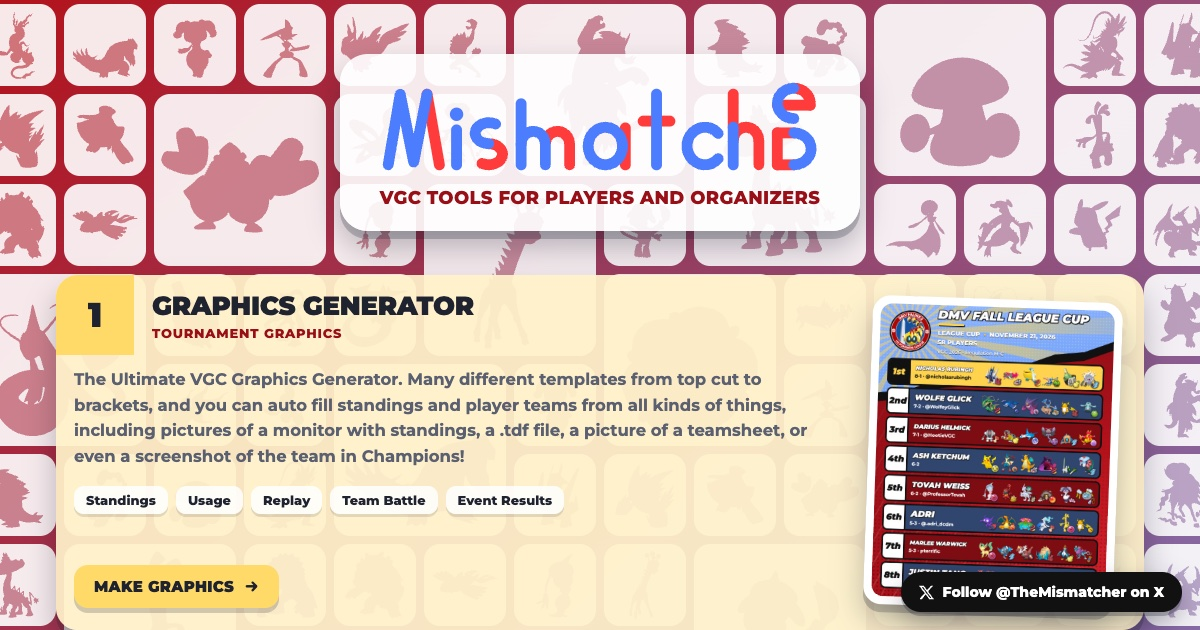
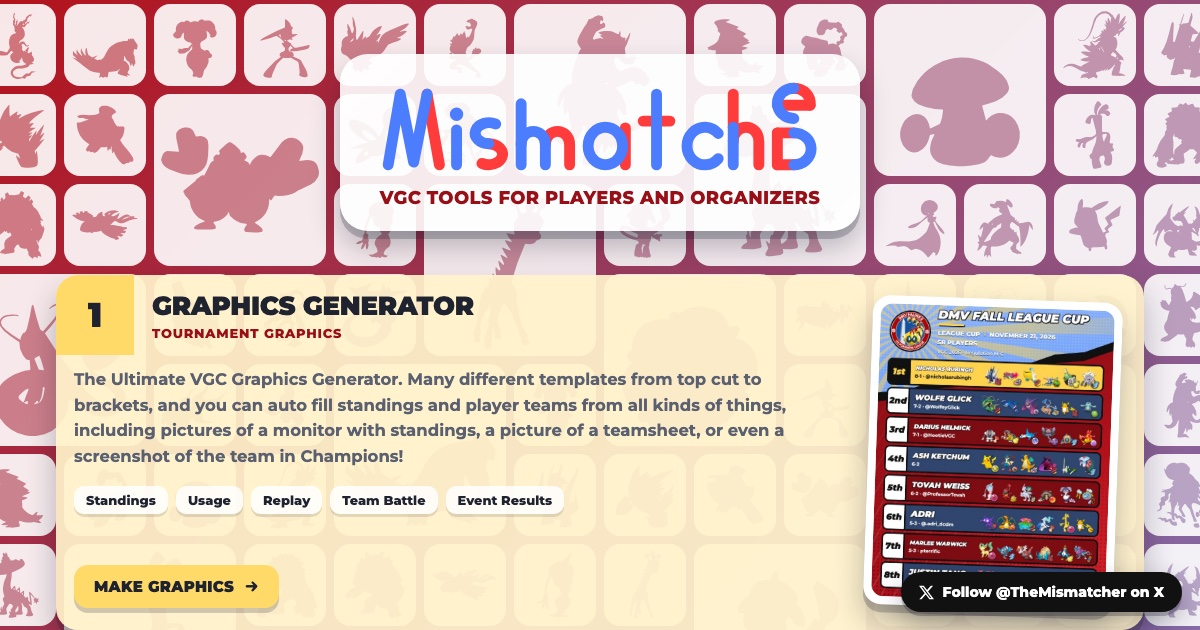
Remove remaining TOM file mentions; text review updates; link-preview images
- Tour "Add your results": upload a PDF of the standings (TOM file upload is gone)
- Standings photo import: "an official local standings page"; PDF error now
  says to use a PDF of the full standings page
- /graphics link preview: "Auto-fill from RK9, photos of standings, and teamsheets";
  public/og-image.jpg rebuilt, home/og-image.jpg re-shot without ".tdf file"
- Credits footer misuse clause moved into the catalog (ui.credits.footer.misuse)
- Sports Page Top 8 Photos / Top 4 Photos / Wide Spotlight descriptions
- StandingsPage comment: TOM File tab removed

Changed region(s): [[0.0617, 0.6937, 0.4008, 0.754], [0.4008, 0.6635, 0.6783, 0.6937]]

diff --git a/home/credits/index.html b/home/credits/index.html
@@ -304,12 +304,12 @@
   </main>
 
   <footer>
-    <p data-i18n="ui.home.footer.legal">Pokémon and all related names © Nintendo / Creatures Inc. / GAME FREAK inc. / The Pokémon Company. Mismatched.gg is a non-commercial fan site, not affiliated with or endorsed by them. All services are provided as is, and the Mismatched.gg team is not responsible for any misuse.</p>
+    <p><span data-i18n="ui.home.footer.legal">Pokémon and all related names © Nintendo / Creatures Inc. / GAME FREAK inc. / The Pokémon Company. Mismatched.gg is a non-commercial fan site, not affiliated with or endorsed by them.</span> <span data-i18n="ui.credits.footer.misuse">All services are provided as is, and the Mismatched.gg team is not responsible for any misuse.</span></p>
   </footer>
 </div>
 
 <!-- The page's strings from the generator's catalog (src/i18n/en.json). Written by `npm run i18n:home`. -->
-<script type="application/json" id="i18n-en">{"ui.credits.contact.text":"Message Nicholas or Tovah on Discord with any glitches, feedback, or suggestions, or if you created a template or brand you would like added.","ui.credits.contact.title":"Feedback or ideas?","ui.credits.home":"Home","ui.credits.metaDescription":"The people, data, and tools behind Mismatched.gg, and how to reach us with bug reports, feedback, suggestions, or new templates to add.","ui.credits.pageTitle":"Credits · Mismatched","ui.credits.people.adri":"Created the Stream Event Results template, the basis for every Event Results template, and gave feedback on other templates. Created the DMV Falinks logo.","ui.credits.people.kicker":"Who made Mismatched.gg","ui.credits.people.marlee":"Created the Classic, Comic Book, and Comic Book Poster templates, which served as the first templates and inspired many of the others.","ui.credits.people.nicholas":"Made the Mismatched.gg Homepage, the Graphics Generator, and Invitational Standings Page. Organizes the DMV Invitational.","ui.credits.people.title":"People","ui.credits.people.tovah":"Built the Calendar Bot, Control Panel, and worked on the site as a whole, updating all parts. She also functions as the primary server admin for Mismatched.gg.","ui.credits.people.twilite":"Came up with the idea for the DMV Invitational and organizes it with Nicholas.","ui.credits.privacy.count":"We count each time a graphic is copied or downloaded on the Graphics Generator, specifically which template and style, which tab, whether it was copied or downloaded, the day, and the country it came from (plus the state in the US).","ui.credits.privacy.countTitle":"What we track","ui.credits.privacy.kicker":"What we collect, and why","ui.credits.privacy.not":"Your IP address is only used to find the country and state, then dropped: it is never saved. We don't collect, and have no way of reading, player names, teams, event details, or anything you type or upload, besides links given to fetch tournament data from external sites. The Graphics Generator and Invitational standings don't use cookies; the Calendar site only uses them to keep you signed in and remember your last tab (its calendar view is an embedded Google Calendar, run by Google). We don't use outside tracking services. We cannot see the contents of files you upload, including images – only the relevant data is read from them, on your device, and then stored in your browser.","ui.credits.privacy.notTitle":"What we don't keep","ui.credits.privacy.title":"Privacy","ui.credits.privacy.who":"Only the Mismatched.gg admins. We use it to improve our most- and least-used templates, and to decide which languages to add next.","ui.credits.privacy.whoTitle":"Who sees it","ui.credits.privacy.why":"Seeing how much each design is used tells us which templates to improve, which to retire, and what we should make next.","ui.credits.privacy.whyTitle":"Why","ui.credits.privacy.yours":"Everything you enter in the Graphics Generator (players, teams, photos, branding) is saved in your own browser, not on our servers.","ui.credits.privacy.yoursTitle":"What you enter stays on your device","ui.credits.sources.bulbagarden":"Item icons","ui.credits.sources.kicker":"Where the assets and data come from","ui.credits.sources.limitless":"Auto import standings, teams, brackets, and usage","ui.credits.sources.maxmind":"Finds the country and US state for the template counts (see Privacy). This product includes GeoLite2 data created by MaxMind, available from https://www.maxmind.com.","ui.credits.sources.official":"Used to import data for standings from official Regionals and Internationals","ui.credits.sources.pokeapi":"Pokémon and item data, sprites, and the Pokémon HOME pictures on graphics and on the Mosaic style template and the home page","ui.credits.sources.pokepaste":"Team imports","ui.credits.sources.rk9":"Used to import data to fill rosters, team lists, and records for Event Results","ui.credits.sources.showdown":"Battle replays to import for the Replay and Team Battle tabs, backup item icons, and the move and ability legality lists that help recognize Pokémon when importing team screenshots","ui.credits.sources.smogon":"Pixel sprites for Pokémon from Gen 6 on, created and contributed by fans. Currently used in the retired pixel style.","ui.credits.sources.title":"Data and Sprites","ui.credits.title":"Credits","ui.credits.tools.cairosvg":"Turns instructions into beautiful images","ui.credits.tools.drawsvg":"Converts code into SVG instructions","ui.credits.tools.fonts":"Fonts","ui.credits.tools.htmlToImage":"Saves graphics as images","ui.credits.tools.kicker":"Free tools used in the backend","ui.credits.tools.pdfjs":"Reads standings PDFs","ui.credits.tools.react":"The Graphics Generator's pages","ui.credits.tools.stackoverflow":"[marked as duplicate]","ui.credits.tools.tesseract":"Reads the text in standings photos and team screenshots","ui.credits.tools.title":"Built with","ui.home.footer.legal":"Pokémon and all related names © Nintendo / Creatures Inc. / GAME FREAK inc. / The Pokémon Company. Mismatched.gg is a non-commercial fan site, not affiliated with or endorsed by them."}</script>
+<script type="application/json" id="i18n-en">{"ui.credits.contact.text":"Message Nicholas or Tovah on Discord with any glitches, feedback, or suggestions, or if you created a template or brand you would like added.","ui.credits.contact.title":"Feedback or ideas?","ui.credits.footer.misuse":"All services are provided as is, and the Mismatched.gg team is not responsible for any misuse.","ui.credits.home":"Home","ui.credits.metaDescription":"The people, data, and tools behind Mismatched.gg, and how to reach us with bug reports, feedback, suggestions, or new templates to add.","ui.credits.pageTitle":"Credits · Mismatched","ui.credits.people.adri":"Created the Stream Event Results template, the basis for every Event Results template, and gave feedback on other templates. Created the DMV Falinks logo.","ui.credits.people.kicker":"Who made Mismatched.gg","ui.credits.people.marlee":"Created the Classic, Comic Book, and Comic Book Poster templates, which served as the first templates and inspired many of the others.","ui.credits.people.nicholas":"Made the Mismatched.gg Homepage, the Graphics Generator, and Invitational Standings Page. Organizes the DMV Invitational.","ui.credits.people.title":"People","ui.credits.people.tovah":"Built the Calendar Bot, Control Panel, and worked on the site as a whole, updating all parts. She also functions as the primary server admin for Mismatched.gg.","ui.credits.people.twilite":"Came up with the idea for the DMV Invitational and organizes it with Nicholas.","ui.credits.privacy.count":"We count each time a graphic is copied or downloaded on the Graphics Generator, specifically which template and style, which tab, whether it was copied or downloaded, the day, and the country it came from (plus the state in the US).","ui.credits.privacy.countTitle":"What we track","ui.credits.privacy.kicker":"What we collect, and why","ui.credits.privacy.not":"Your IP address is only used to find the country and state, then dropped: it is never saved. We don't collect, and have no way of reading, player names, teams, event details, or anything you type or upload, besides links given to fetch tournament data from external sites. The Graphics Generator and Invitational standings don't use cookies; the Calendar site only uses them to keep you signed in and remember your last tab (its calendar view is an embedded Google Calendar, run by Google). We don't use outside tracking services. We cannot see the contents of files you upload, including images – only the relevant data is read from them, on your device, and then stored in your browser.","ui.credits.privacy.notTitle":"What we don't keep","ui.credits.privacy.title":"Privacy","ui.credits.privacy.who":"Only the Mismatched.gg admins. We use it to improve our most- and least-used templates, and to decide which languages to add next.","ui.credits.privacy.whoTitle":"Who sees it","ui.credits.privacy.why":"Seeing how much each design is used tells us which templates to improve, which to retire, and what we should make next.","ui.credits.privacy.whyTitle":"Why","ui.credits.privacy.yours":"Everything you enter in the Graphics Generator (players, teams, photos, branding) is saved in your own browser, not on our servers.","ui.credits.privacy.yoursTitle":"What you enter stays on your device","ui.credits.sources.bulbagarden":"Item icons","ui.credits.sources.kicker":"Where the assets and data come from","ui.credits.sources.limitless":"Auto import standings, teams, brackets, and usage","ui.credits.sources.maxmind":"Finds the country and US state for the template counts (see Privacy). This product includes GeoLite2 data created by MaxMind, available from https://www.maxmind.com.","ui.credits.sources.official":"Used to import data for standings from official Regionals and Internationals","ui.credits.sources.pokeapi":"Pokémon and item data, sprites, and the Pokémon HOME pictures on graphics and on the Mosaic style template and the home page","ui.credits.sources.pokepaste":"Team imports","ui.credits.sources.rk9":"Used to import data to fill rosters, team lists, and records for Event Results","ui.credits.sources.showdown":"Battle replays to import for the Replay and Team Battle tabs, backup item icons, and the move and ability legality lists that help recognize Pokémon when importing team screenshots","ui.credits.sources.smogon":"Pixel sprites for Pokémon from Gen 6 on, created and contributed by fans. Currently used in the retired pixel style.","ui.credits.sources.title":"Data and Sprites","ui.credits.title":"Credits","ui.credits.tools.cairosvg":"Turns instructions into beautiful images","ui.credits.tools.drawsvg":"Converts code into SVG instructions","ui.credits.tools.fonts":"Fonts","ui.credits.tools.htmlToImage":"Saves graphics as images","ui.credits.tools.kicker":"Free tools used in the backend","ui.credits.tools.pdfjs":"Reads standings PDFs","ui.credits.tools.react":"The Graphics Generator's pages","ui.credits.tools.stackoverflow":"[marked as duplicate]","ui.credits.tools.tesseract":"Reads the text in standings photos and team screenshots","ui.credits.tools.title":"Built with","ui.home.footer.legal":"Pokémon and all related names © Nintendo / Creatures Inc. / GAME FREAK inc. / The Pokémon Company. Mismatched.gg is a non-commercial fan site, not affiliated with or endorsed by them."}</script>
 <script src="/site.js"></script>
 <script>
 new ResizeObserver(drawWall).observe(document.body)

diff --git a/src/pages/StandingsPage.tsx b/src/pages/StandingsPage.tsx
@@ -52,7 +52,7 @@ export function StandingsPage({
   setState: (fn: (s: AppState) => AppState) => void, 
 }) {
   const [inputTab, setInputTab] = React.useState(0);
-  // The Data panel's own source tabs (Limitless / TOM File / Photo / PDF); separate from Templates / Data.
+  // The Data panel's own source tabs (Limitless / Photo / PDF); separate from Templates / Data.
   const [sourceTab, setSourceTab] = React.useState(0);
   const [bulkSheets, setBulkSheets] = React.useState(false);
   // The feature tour points at the layout and style pickers, so it opens the Templates panel.
